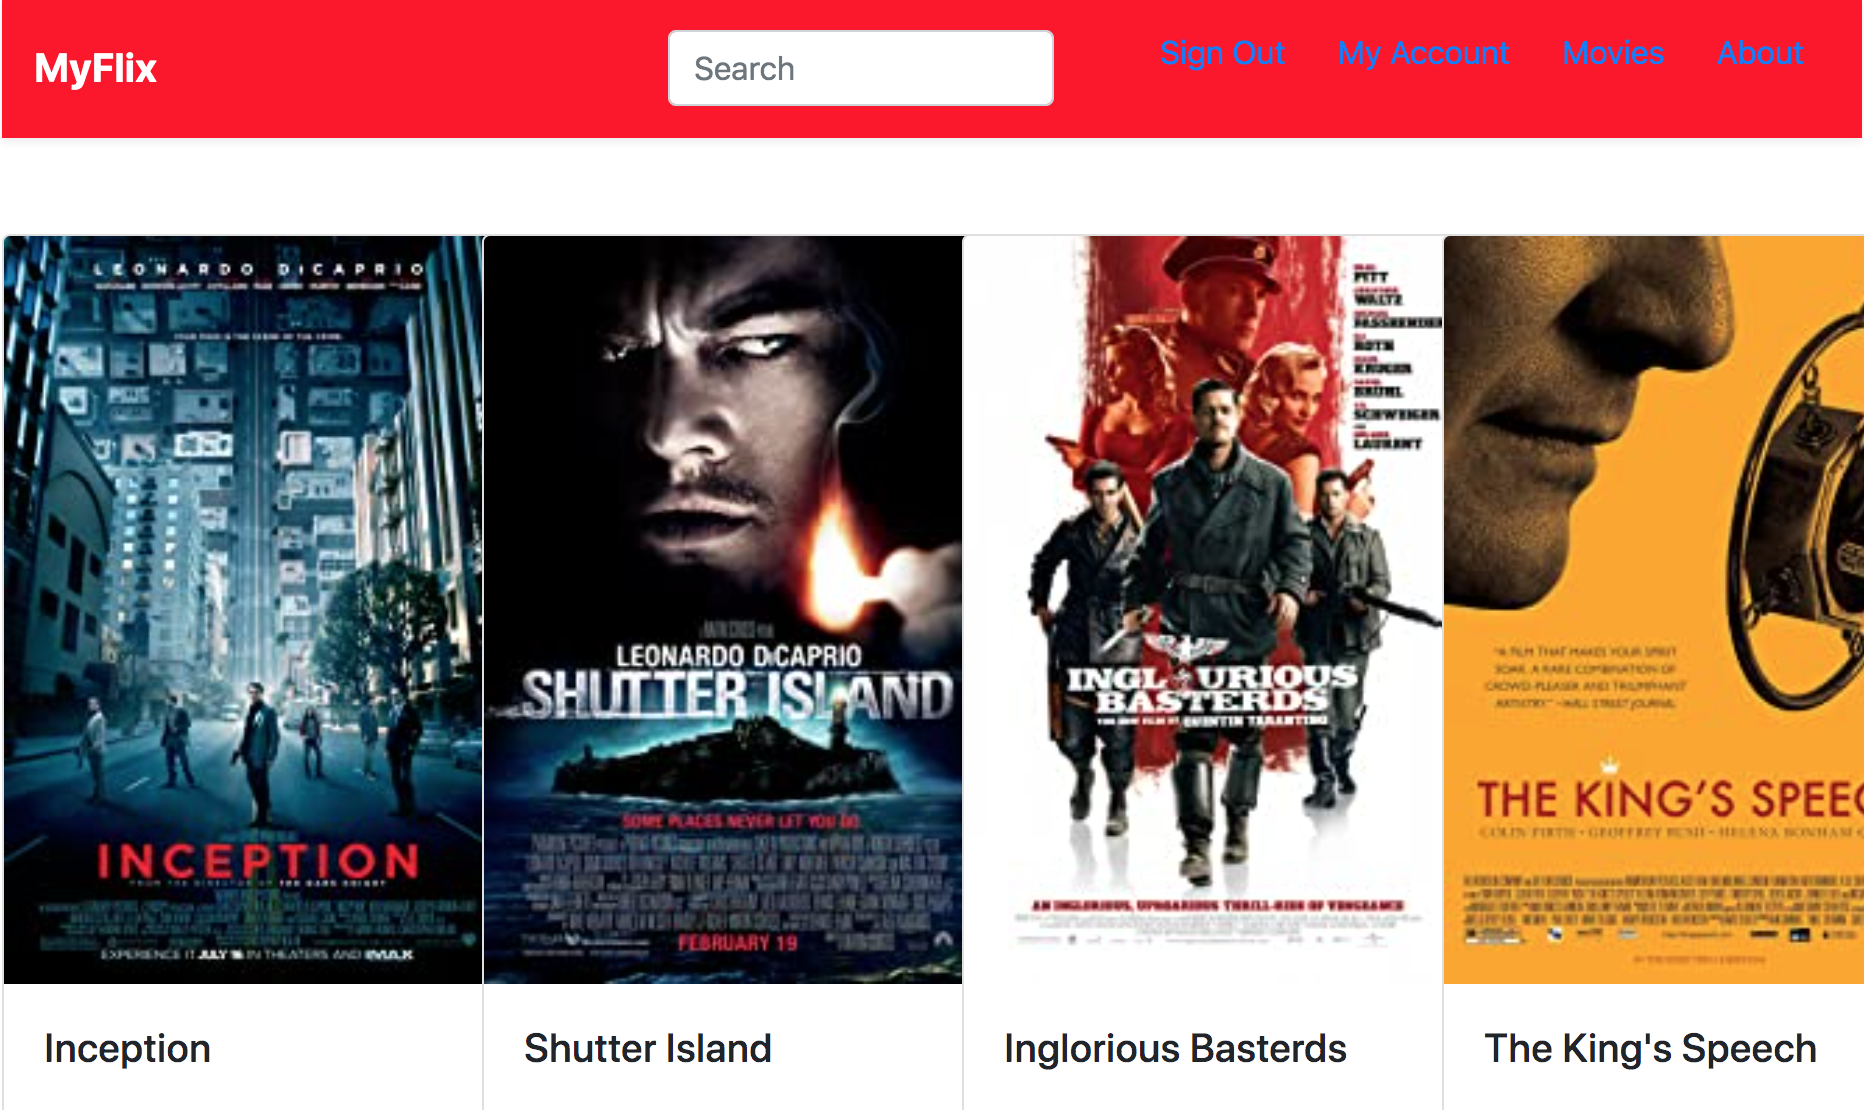
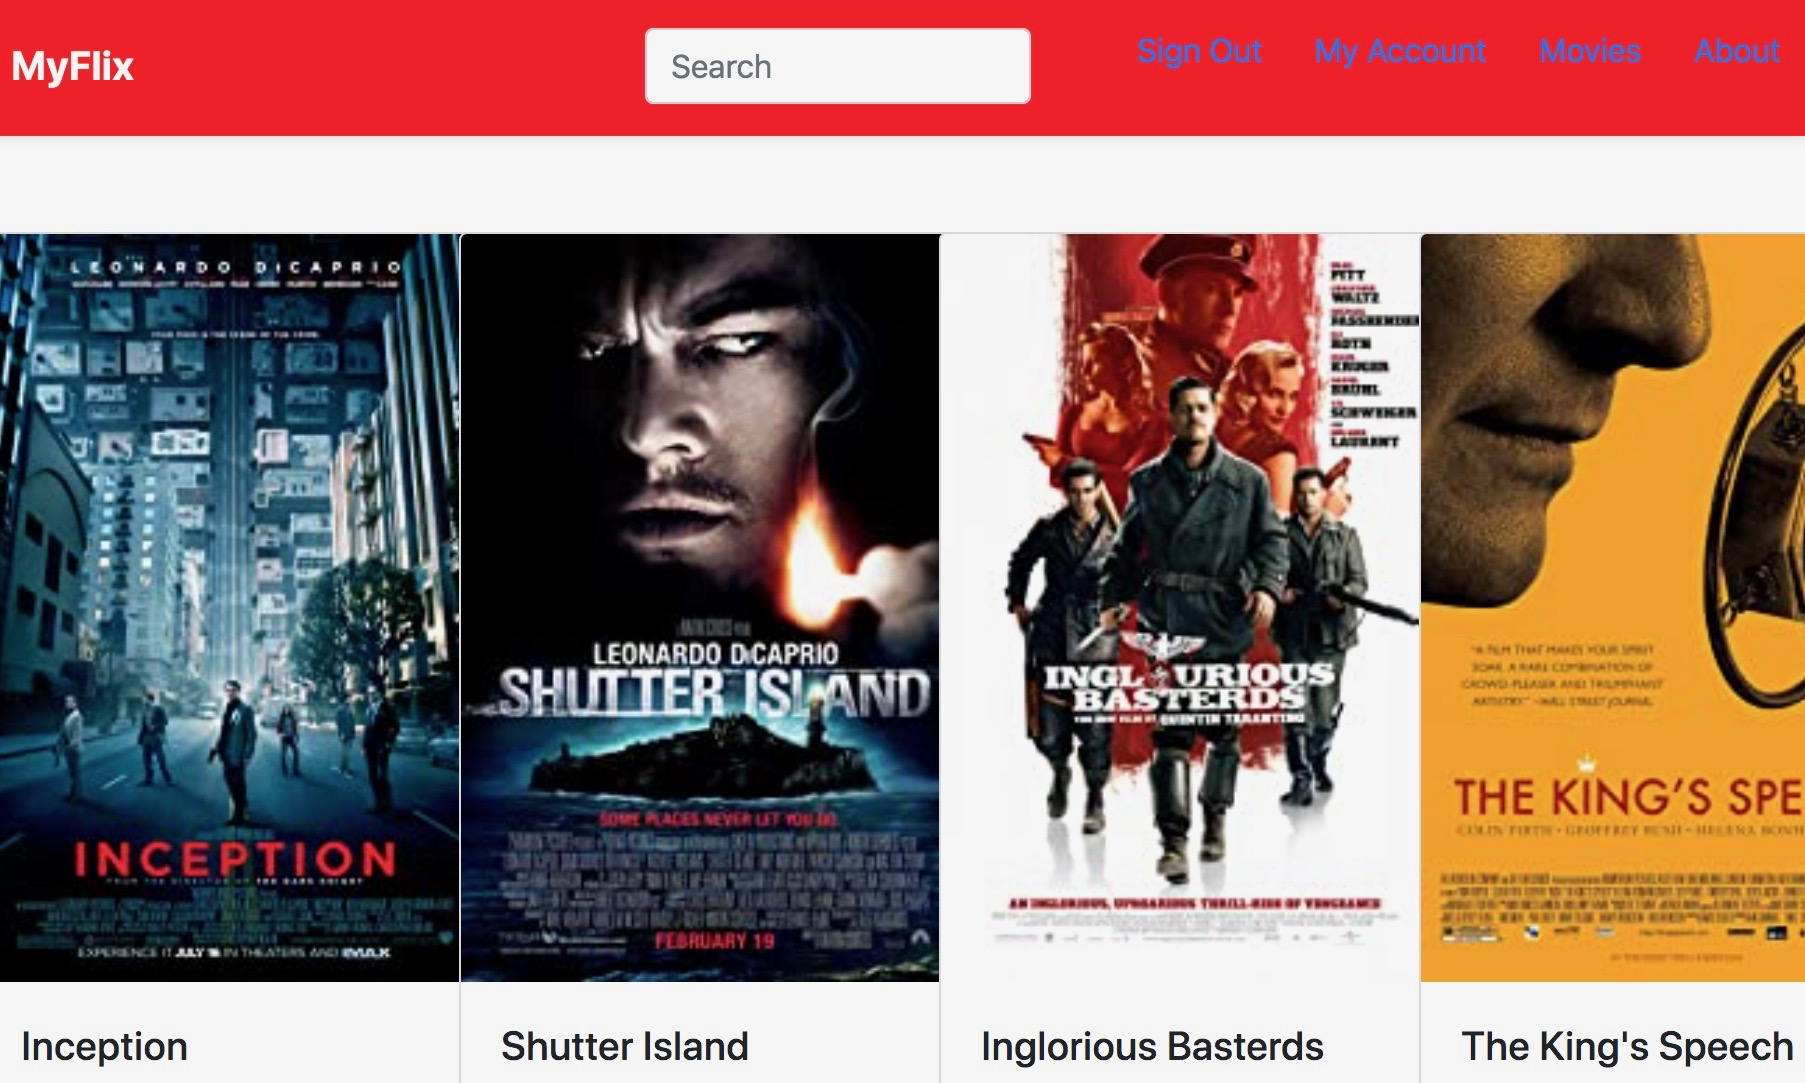
added github links, resized thumbnails, etc.

diff --git a/index.html b/index.html
@@ -74,7 +74,13 @@
                                 <div class="project-name">Chat App</div>
                             </div>
                         </a>
+                        <a href="https://github.com/felicitygjames/chat-app" target="_blank"
+                    class="btn btn-primary btn-xl contact-button container px-4 px-lg-5 small text-center"
+                  >
+                    See on GitHub
+                    </a>
                     </div>
+                    
                     <div class="col-lg-4 col-sm-6">
                         <a class="portfolio-box" href="https://myflix-movies-fj.netlify.app/" title="Project Name">
                             <img class="img-fluid" src="assets/img/portfolio/thumbnails/2.jpg" alt="..." />
@@ -83,6 +89,11 @@
                                 <div class="project-name">MyFlix</div>
                             </div>
                         </a>
+                        <a href="https://github.com/felicitygjames/myflix-client" target="_blank"
+                    class="btn btn-primary btn-xl contact-button container px-4 px-lg-5 small text-center"
+                  >
+                    See on GitHub
+                    </a>
                     </div>
                     <div class="col-lg-4 col-sm-6">
                         <a class="portfolio-box" href="https://felicitygjames.github.io/meet-app/" title="Project Name">
@@ -92,6 +103,11 @@
                                 <div class="project-name">Meet App</div>
                             </div>
                         </a>
+                        <a href="https://github.com/felicitygjames/meet-app" target="_blank"
+                    class="btn btn-primary btn-xl contact-button container px-4 px-lg-5 small text-center"
+                  >
+                    See on GitHub
+                    </a>
                     </div>
                     <div class="col-lg-4 col-sm-6">
                         <a class="portfolio-box" href="https://felicitygjames.github.io/myflix-angular/welcome" title="Project Name">
@@ -101,6 +117,11 @@
                                 <div class="project-name">flixNet</div>
                             </div>
                         </a>
+                        <a href="https://github.com/felicitygjames/myflix-angular" target="_blank"
+                    class="btn btn-primary btn-xl contact-button container px-4 px-lg-5 small text-center"
+                  >
+                    See on GitHub
+                    </a>
                     </div>
                     <div class="col-lg-4 col-sm-6">
                         <a class="portfolio-box" href="https://pokedex-felicityjames.netlify.app/" target="_blank" title="Project Name">
@@ -110,15 +131,25 @@
                                 <div class="project-name">Pokedex App</div>
                             </div>
                         </a>
+                        <a href="https://github.com/felicitygjames/pokedex-jquery" target="_blank"
+                    class="btn btn-primary btn-xl contact-button container px-4 px-lg-5 small text-center"
+                  >
+                    See on GitHub
+                    </a>
                     </div>
                     <div class="col-lg-4 col-sm-6">
-                        <a class="portfolio-box" href="assets/img/portfolio/fullsize/6.jpg" title="Project Name">
+                        <a class="portfolio-box" href="https://to-do-list-app-fj.netlify.app/" title="Project Name">
                             <img class="img-fluid" src="assets/img/portfolio/thumbnails/6.jpg" alt="..." />
                             <div class="portfolio-box-caption p-3">
-                                <div class="project-category text-white-50">Category</div>
+                                <div class="project-category text-white-50">JavaScript</div>
                                 <div class="project-name">To-Do List App</div>
                             </div>
                         </a>
+                        <a href="https://github.com/felicitygjames/to-do-list-app" target="_blank"
+                    class="btn btn-primary btn-xl contact-button container px-4 px-lg-5 small text-center"
+                  >
+                    See on GitHub
+                    </a>
                     </div>
                 </div>
             </div>
@@ -158,7 +189,7 @@
               </p>
   
                   <button
-                    class="btn btn-primary btn-xl contact-button"
+                    class="btn btn-primary btn-xl contact-button container px-4 px-lg-5 small text-center"
                     id="sendMessageButton"
                     type="submit" 
                     onclick="send()"
@@ -175,7 +206,7 @@
         <footer class="bg-light py-5">
             <div class="container px-4 px-lg-5"><div class="small text-center text-muted">Copyright &copy; 2021 - Felicity James</div></div>
             
-      <div class="social-media">
+      <div class="container px-4 px-lg-5 small text-center text-muted">
         <a class="social-media" href="http://www.facebook.com" target="_blank">
           <img src="assets/facebookicon.svg" alt="Facebook" />
         </a>
